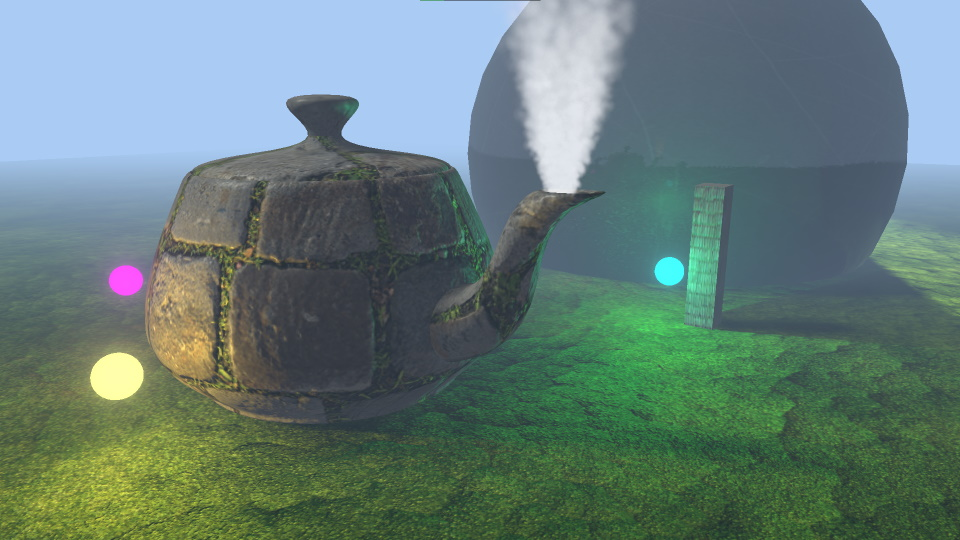
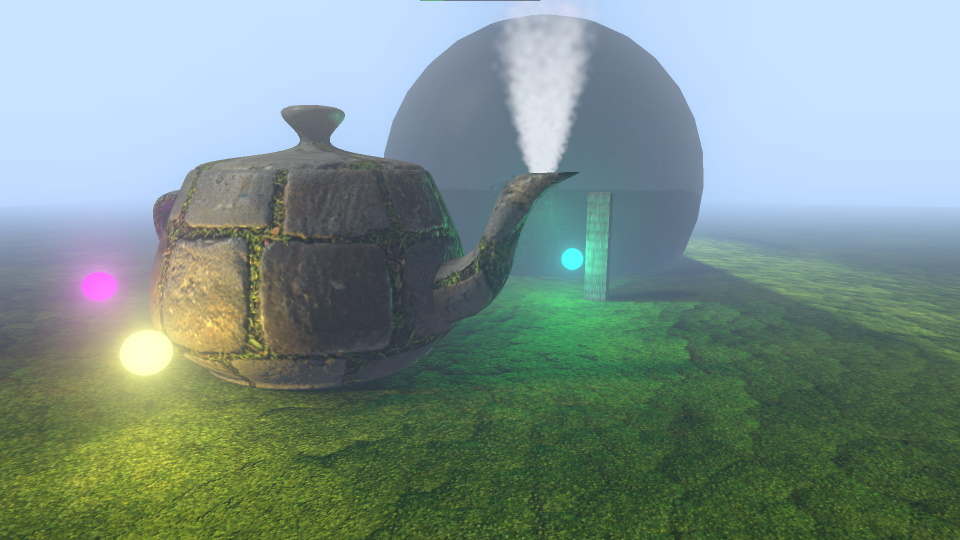
Configure bloom and fog parameters; Refactor PostFX Pixel Shader; Create new screenshot; Update the README with features.

diff --git a/DX12Renderer/LightingDemo/LightingDemo.cpp b/DX12Renderer/LightingDemo/LightingDemo.cpp
@@ -448,14 +448,18 @@ void LightingDemo::OnRender(RenderEventArgs& e)
 		PostFxPso::PostFxParameters parameters;
 		parameters.ProjectionInverse = m_Scene->MainCamera.GetInverseProjectionMatrix();
 		parameters.FogColor = XMFLOAT3(CLEAR_COLOR);
-		parameters.FogDensity = 0.015f;
+		parameters.FogDensity = 0.017f;
 		m_PostFxPso->SetParameters(*commandList, parameters);
 
 		m_PostFxPso->Blit(*commandList);
 	}
 
 	{
-		m_BloomPso->Draw(*commandList, m_PostFxRenderTarget.GetTexture(Color0), m_PostFxRenderTarget);
+		BloomPso::Parameters parameters;
+		parameters.Threshold = 1.25f;
+		parameters.SoftThreshold = 0.3f;
+		parameters.Intensity = 1.5f;
+		m_BloomPso->Draw(*commandList, m_PostFxRenderTarget.GetTexture(Color0), m_PostFxRenderTarget, parameters);
 	}
 
 	commandQueue->ExecuteCommandList(commandList);

diff --git a/DX12Renderer/LightingDemo/BloomPso.cpp b/DX12Renderer/LightingDemo/BloomPso.cpp
@@ -261,14 +261,14 @@ void BloomPso::Resize(uint32_t width, uint32_t height)
 	}
 }
 
-void BloomPso::Draw(CommandList& commandList, Texture source, RenderTarget destination)
+void BloomPso::Draw(CommandList& commandList, const Texture& source, const RenderTarget& destination, const Parameters& parameters)
 {
 	PIXScope(commandList, "Bloom");
 	commandList.SetScissorRect(m_ScissorRect);
 
-	const float threshold = 0.99f;
-	const float softThreshold = 0.1f;
-	const float intensity = 1.2f;
+	const float threshold = parameters.Threshold;
+	const float softThreshold = parameters.SoftThreshold;
+	const float intensity = parameters.Intensity;
 
 	{
 		PIXScope(commandList, "Bloom Prefilter");

diff --git a/DX12Renderer/LightingDemo/BloomPso.h b/DX12Renderer/LightingDemo/BloomPso.h
@@ -21,7 +21,15 @@ public:
 	explicit BloomPso(Microsoft::WRL::ComPtr<ID3D12Device2> device, CommandList& commandList, uint32_t width, uint32_t height, DXGI_FORMAT backBufferFormat);
 
 	void Resize(uint32_t width, uint32_t height);
-	void Draw(CommandList& commandList, Texture source, RenderTarget destination);
+
+	struct Parameters
+	{
+		float Intensity;
+		float Threshold;
+		float SoftThreshold;
+	};
+
+	void Draw(CommandList& commandList, const Texture& source, const RenderTarget& destination, const Parameters& parameters);
 
 private:
 	static void GetIntermediateTextureSize(uint32_t width, uint32_t height, size_t index, uint32_t& outWidth, uint32_t& outHeight);

diff --git a/README.md b/README.md
@@ -9,7 +9,11 @@
     - Using diffuse, normal, gloss, and specular maps;
   - Particle system with CPU simulation (10000+ particles on screen) and instanced rendering;
   - Shadow mapping for the directional, point, and spot lights;
-  - Soft shadows using 16x Poisson Sampling and Early Bail.
+  - Soft shadows using 16x Poisson Sampling and Early Bail;
+  - Dynamic environment reflections - see the sphere;
+  - Post-processing:
+    - Screen-space fog;
+    - Bloom.
 
 ![Lighting Demo Screenshot](./Screenshots/LightingDemo.jpg)
 
@@ -29,6 +33,7 @@
 - https://github.com/d3dcoder/d3d12book
 - http://www.opengl-tutorial.org/ru/intermediate-tutorials/tutorial-16-shadow-mapping/
 - https://learnopengl.com/Advanced-Lighting/Shadows/Point-Shadows
+- https://catlikecoding.com/unity/tutorials/advanced-rendering/bloom/
 
 ### Libraries
 
